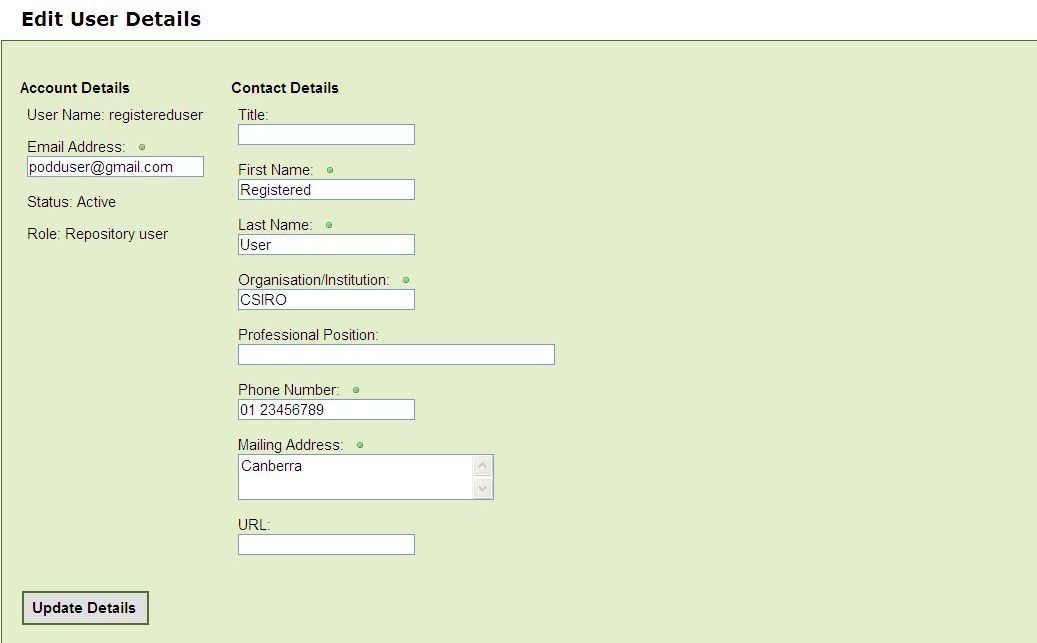
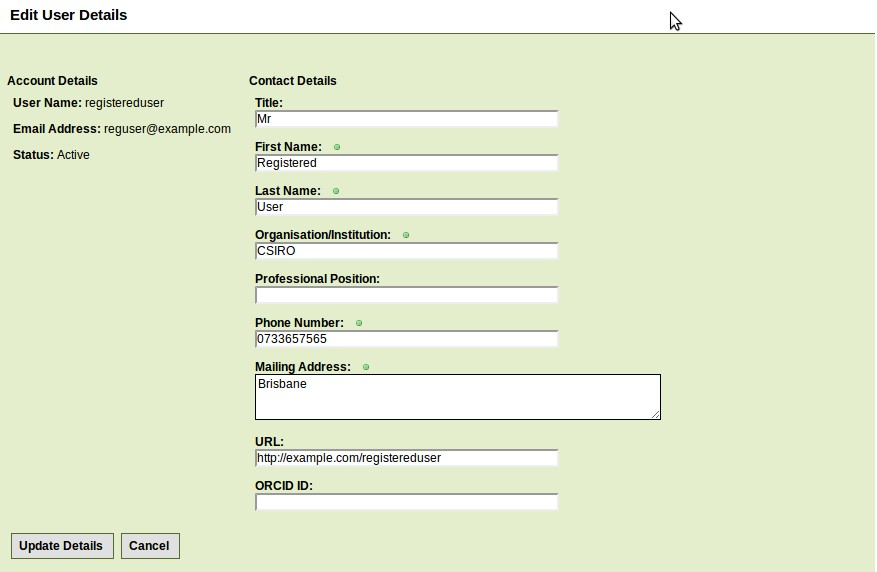
help - user accounts

diff --git a/webapp/lib/src/main/resources/templates/help_user_accounts.html b/webapp/lib/src/main/resources/templates/help_user_accounts.html
@@ -2,16 +2,18 @@
 <br>
 <h4>Changing User Details</h4>
 <p>When a registered user is logged in, a <em>Settings</em> link is displayed on the user functions menu bar. The user clicks the link, the <strong>User Details</strong> screen is displayed as follows.</p>
-<p class="rtecenter">&nbsp;<img height="379" width="660" border="1" alt="" src="${baseUrl}/resources/images/userprofile1.jpg" /></p>
-<p class="rteleft"><em>Figure 5.1 &ndash; Screen shot of the User Details screen</em></p>
+<p class="rtecenter">&nbsp;<img style="height: 533px; width: 776px;" border="1" alt="" src="${baseUrl}/resources/images/userprofile1.jpg" /></p>
+<p class="rteleft"><em>Figure 5.1 &ndash; Screenshot of the User Details screen</em></p>
 <p>Through this screen, the users can reset their password or change their profiles by clicking the buttons at the bottom of the page. Click the <strong>Edit User</strong> button at the bottom of the User Details page, the <strong>Edit User Details</strong> screen is displayed as Figure 5.2.</p>
-<p class="rtecenter">&nbsp;<img style="width: 788px; height: 488px;" border="1" alt="" src="${baseUrl}/resources/images/edituser.jpg" /></p>
-<p class="rteleft"><em>Figure 5.2 &ndash; Screen Shot of Edit User Details</em></p>
-<p>The user can change Email address, personal details and contact details. User name can not be changed once registered. Only the administrator can change the users Status and role. Once the user clicks the <strong>Update Details</strong> button at the bottom of the page, the system will confirm the update to the user by displaying the updated <strong>User Details</strong> screen. Also, an email will be sent to the registered email address advising the update of the user details.</p>
+<p class="rtecenter">&nbsp;<img style="width: 877px; height: 572px;" border="1" alt="" src="${baseUrl}/resources/images/edituser.jpg" /></p>
+<p class="rteleft"><em>Figure 5.2 &ndash; Screenshot of Edit User Details screen</em></p>
+<p>The user can change personal details and contact details. User name and Email Address can not be changed once registered. Only the administrator can change the users roles. Once the user clicks the <strong>Update Details</strong> button at the bottom of the page, the system will confirm the update to the user by displaying the updated <strong>User Details</strong> screen. 
+<!-- Also, an email will be sent to the registered email address advising the update of the user details.--></p>
 <br>
 <h4>Resetting Password</h4>
-<p>Click the <strong>Change Password</strong> button at the bottom of the <strong>User Details</strong> page, the <strong>Change User Password</strong> screen is displayed (Figure 5.1).</p>
-<p class="rtecenter">&nbsp;<img style="width: 746px; height: 234px;" border="1" alt="" src="${baseUrl}/resources/images/changepassword_0.jpg" /></p>
-<p class="rteleft"><em>Figure 5.3 &ndash; screen shot of the Change User Password</em></p>
-<p>The user enters the new password in the Password field and the Confirm Password field. Once the <strong>Save Password</strong> button is hit, the system will confirm the update to the user and the <strong>User Details</strong> screen is returned. Also, an email will be sent to the registered email address advising the new password.</p>
+<p>Click the <strong>Change Password</strong> button at the bottom of the <strong>User Details</strong> page, the <strong>Change User Password</strong> screen is displayed (Figure 5.3).</p>
+<p class="rtecenter">&nbsp;<img style="width: 381px; height: 316px;" border="1" alt="" src="${baseUrl}/resources/images/changepassword_0.jpg" /></p>
+<p class="rteleft"><em>Figure 5.3 &ndash; Screenshot of Change User Password screen</em></p>
+<p>The user enters the current password in the Old Password field and the new password in the New Password and Confirm New Password fields. Once the <strong>Save Password</strong> button is hit, the system will confirm the update to the user and the <strong>User Details</strong> screen is returned. 
+<!-- Also, an email will be sent to the registered email address advising the new password. --></p>
 <p>Note that the password has to be at least 6 characters long with no space. Password entered in the two fields must match.</p>

diff --git a/webapp/lib/src/main/resources/templates/help_registration.html b/webapp/lib/src/main/resources/templates/help_registration.html
@@ -1,17 +1,13 @@
 <h3 class="underlined_heading">Accessing PODD</h3>
 <h4>Overview</h4>
-<p>There are public users and registered users in the PODD system. Registered users are standard users to the system. They have more privileges to the public users.</p>
+<p>There are public users and registered users in the PODD system. Registered users are standard users of the system. They have more privileges compared to the public users.</p>
 <p>A public user can become a registered user by</p>
 <ul class="stylized">
-	<li>Asking the <a href="${baseUrl}/supportDesk">system administrator</a> to set up an account for them;</li>
-	<li>Registering themselves in PODD;</li>
-	<li>Using their Institutional Login via the Australian Access Federation.</li>
+	<li>Asking the <a href="${baseUrl}/supportDesk">system administrator</a> to set up an account for them.</li>
 </ul> 
 <p>Once they have an active account with PODD, they will be able to login or logout of the PODD system.</p>
 <p>User registration and Login/Logout are discussed in the following sections in details</p>
 <ul class="stylized">
-    <li><a href="${baseUrl}/help/self_register">Self registration;</a></li>
     <li><a href="${baseUrl}/help/login">PODD login;</a></li>
-    <li><a href="${baseUrl}/help/aaf_login">Institutional login;</a></li>
     <li><a href="${baseUrl}/help/logout">Logout.</a></li>
 </ul>

diff --git a/webapp/lib/src/main/resources/templates/help_login.html b/webapp/lib/src/main/resources/templates/help_login.html
@@ -2,7 +2,7 @@
 <p>Registered users of the system need to login to PODD to access their projects and perform functions related to their repository role.</p>
 <p>PODD based login is performed using the dialog shown in Figure 4.2.1</p>
 <p class="rteleft"><img border="1" alt="" width="530" height="331" src="${baseUrl}/resources/images/login-2.jpg" /></p>
-<p><em>Figure 4.2.1: Screen shot of PODD Users Login dialog </em></p>
+<p><em>Figure 4.2.1: Screenshot of PODD Users Login screen </em></p>
 <p>The user fills in:</p>
 <ul class="stylized">
     <li>User ID;</li>
